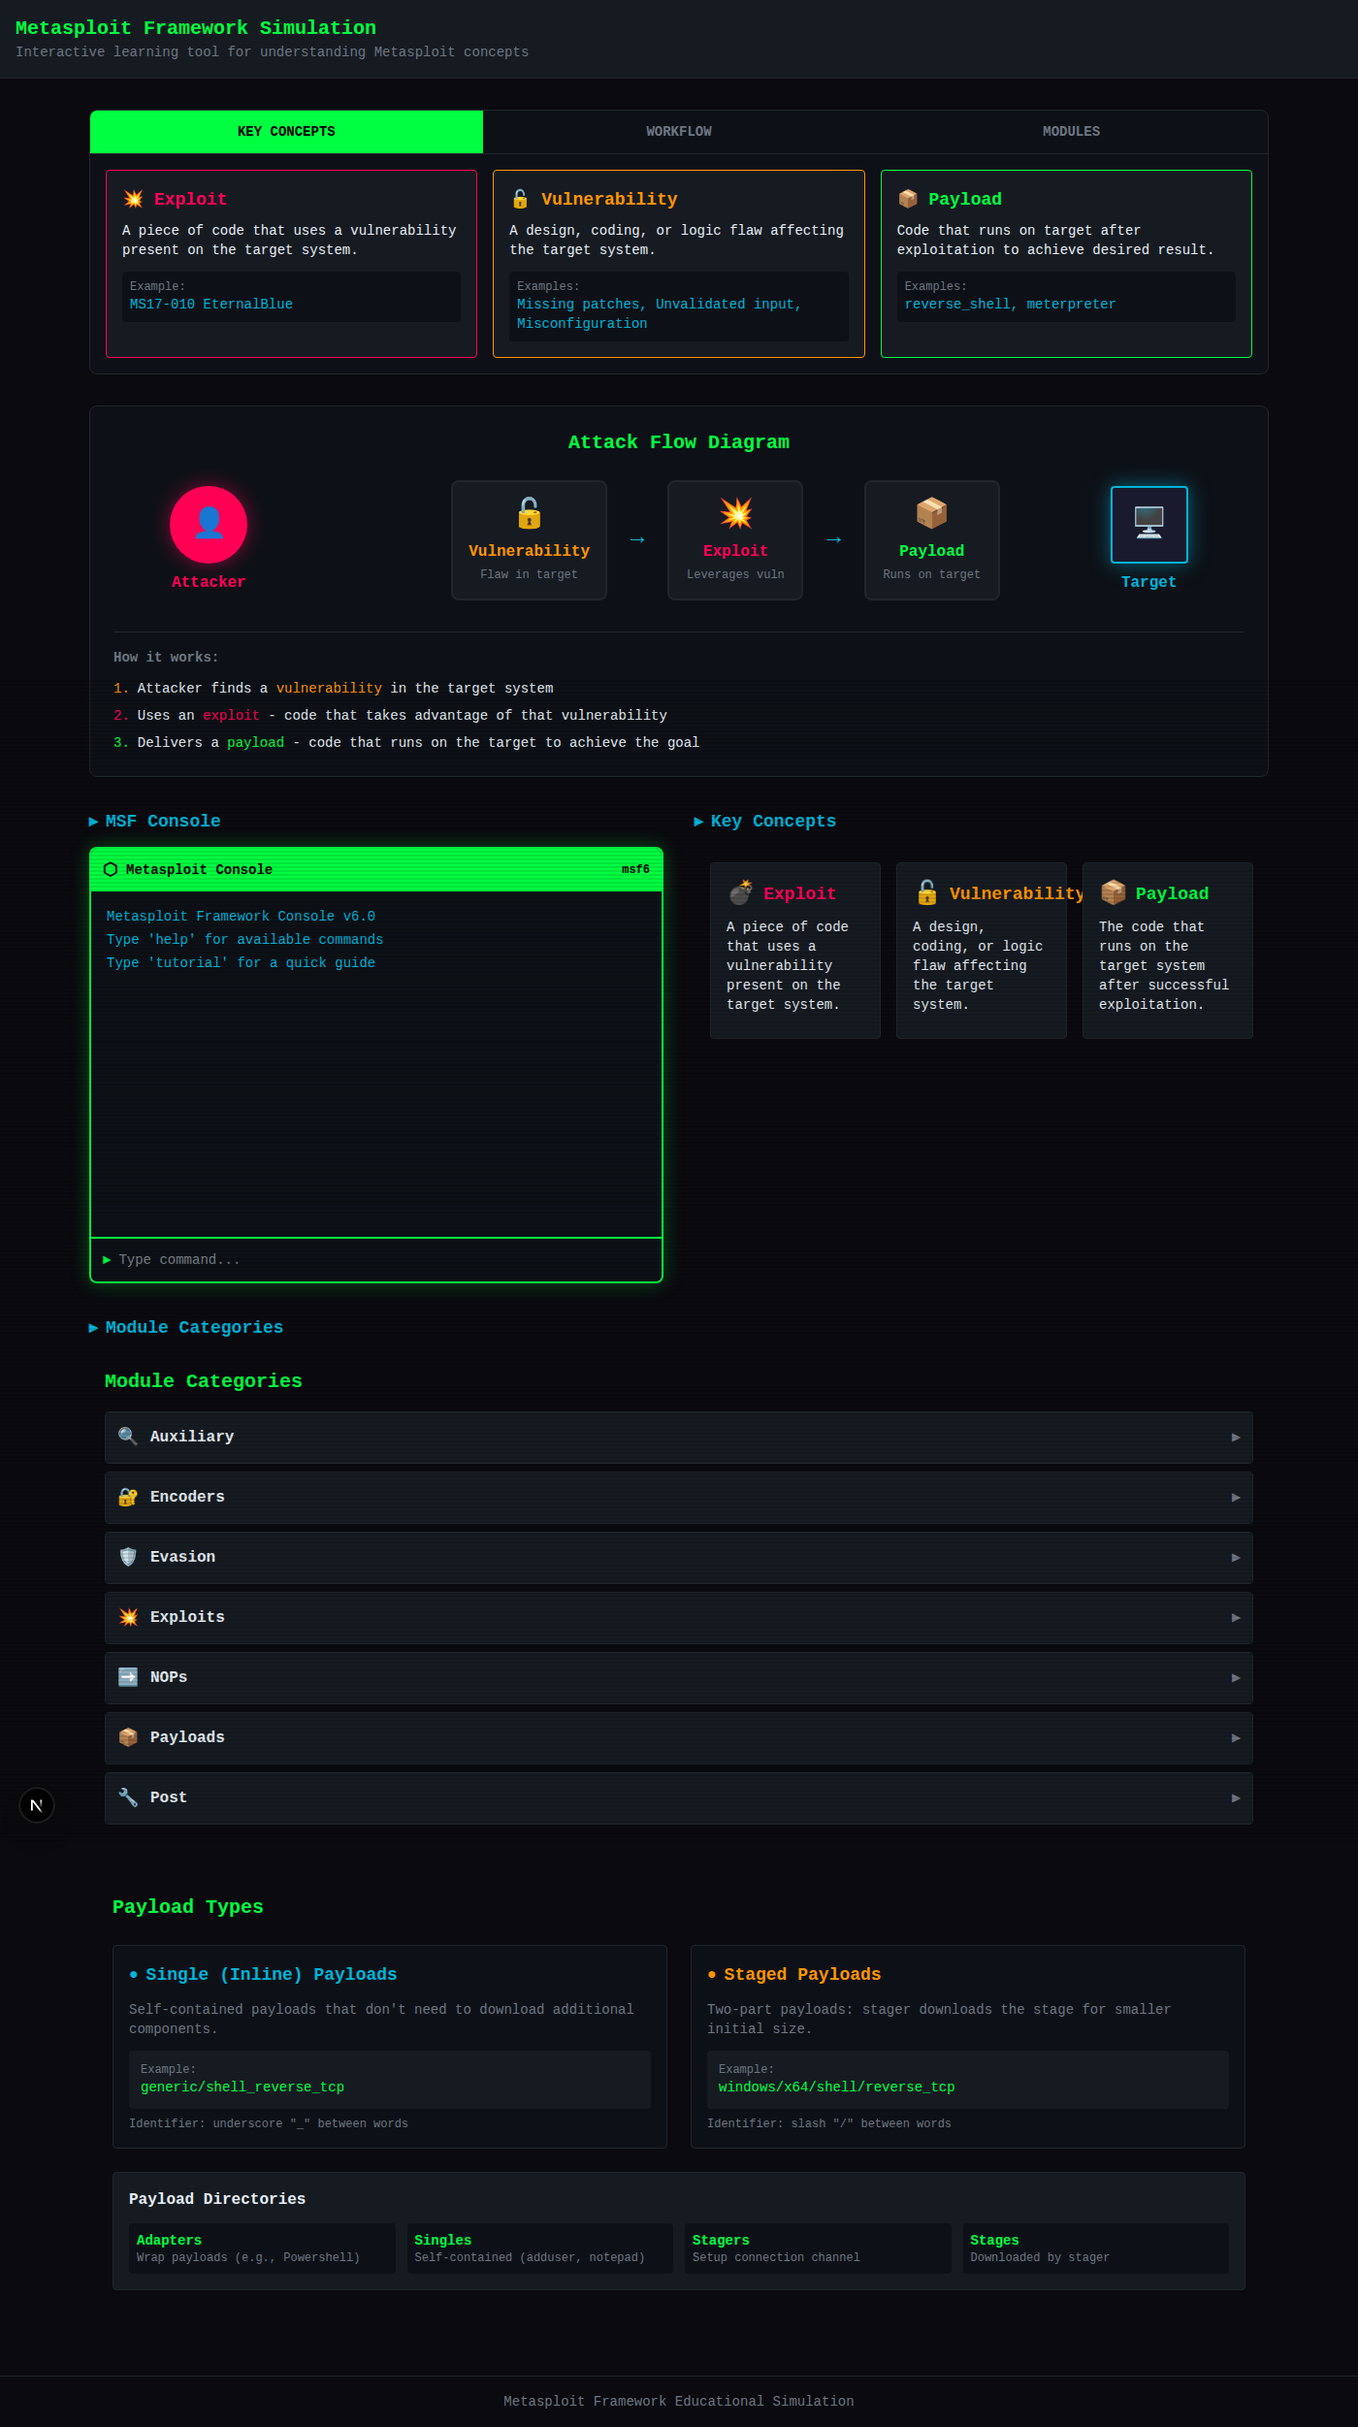
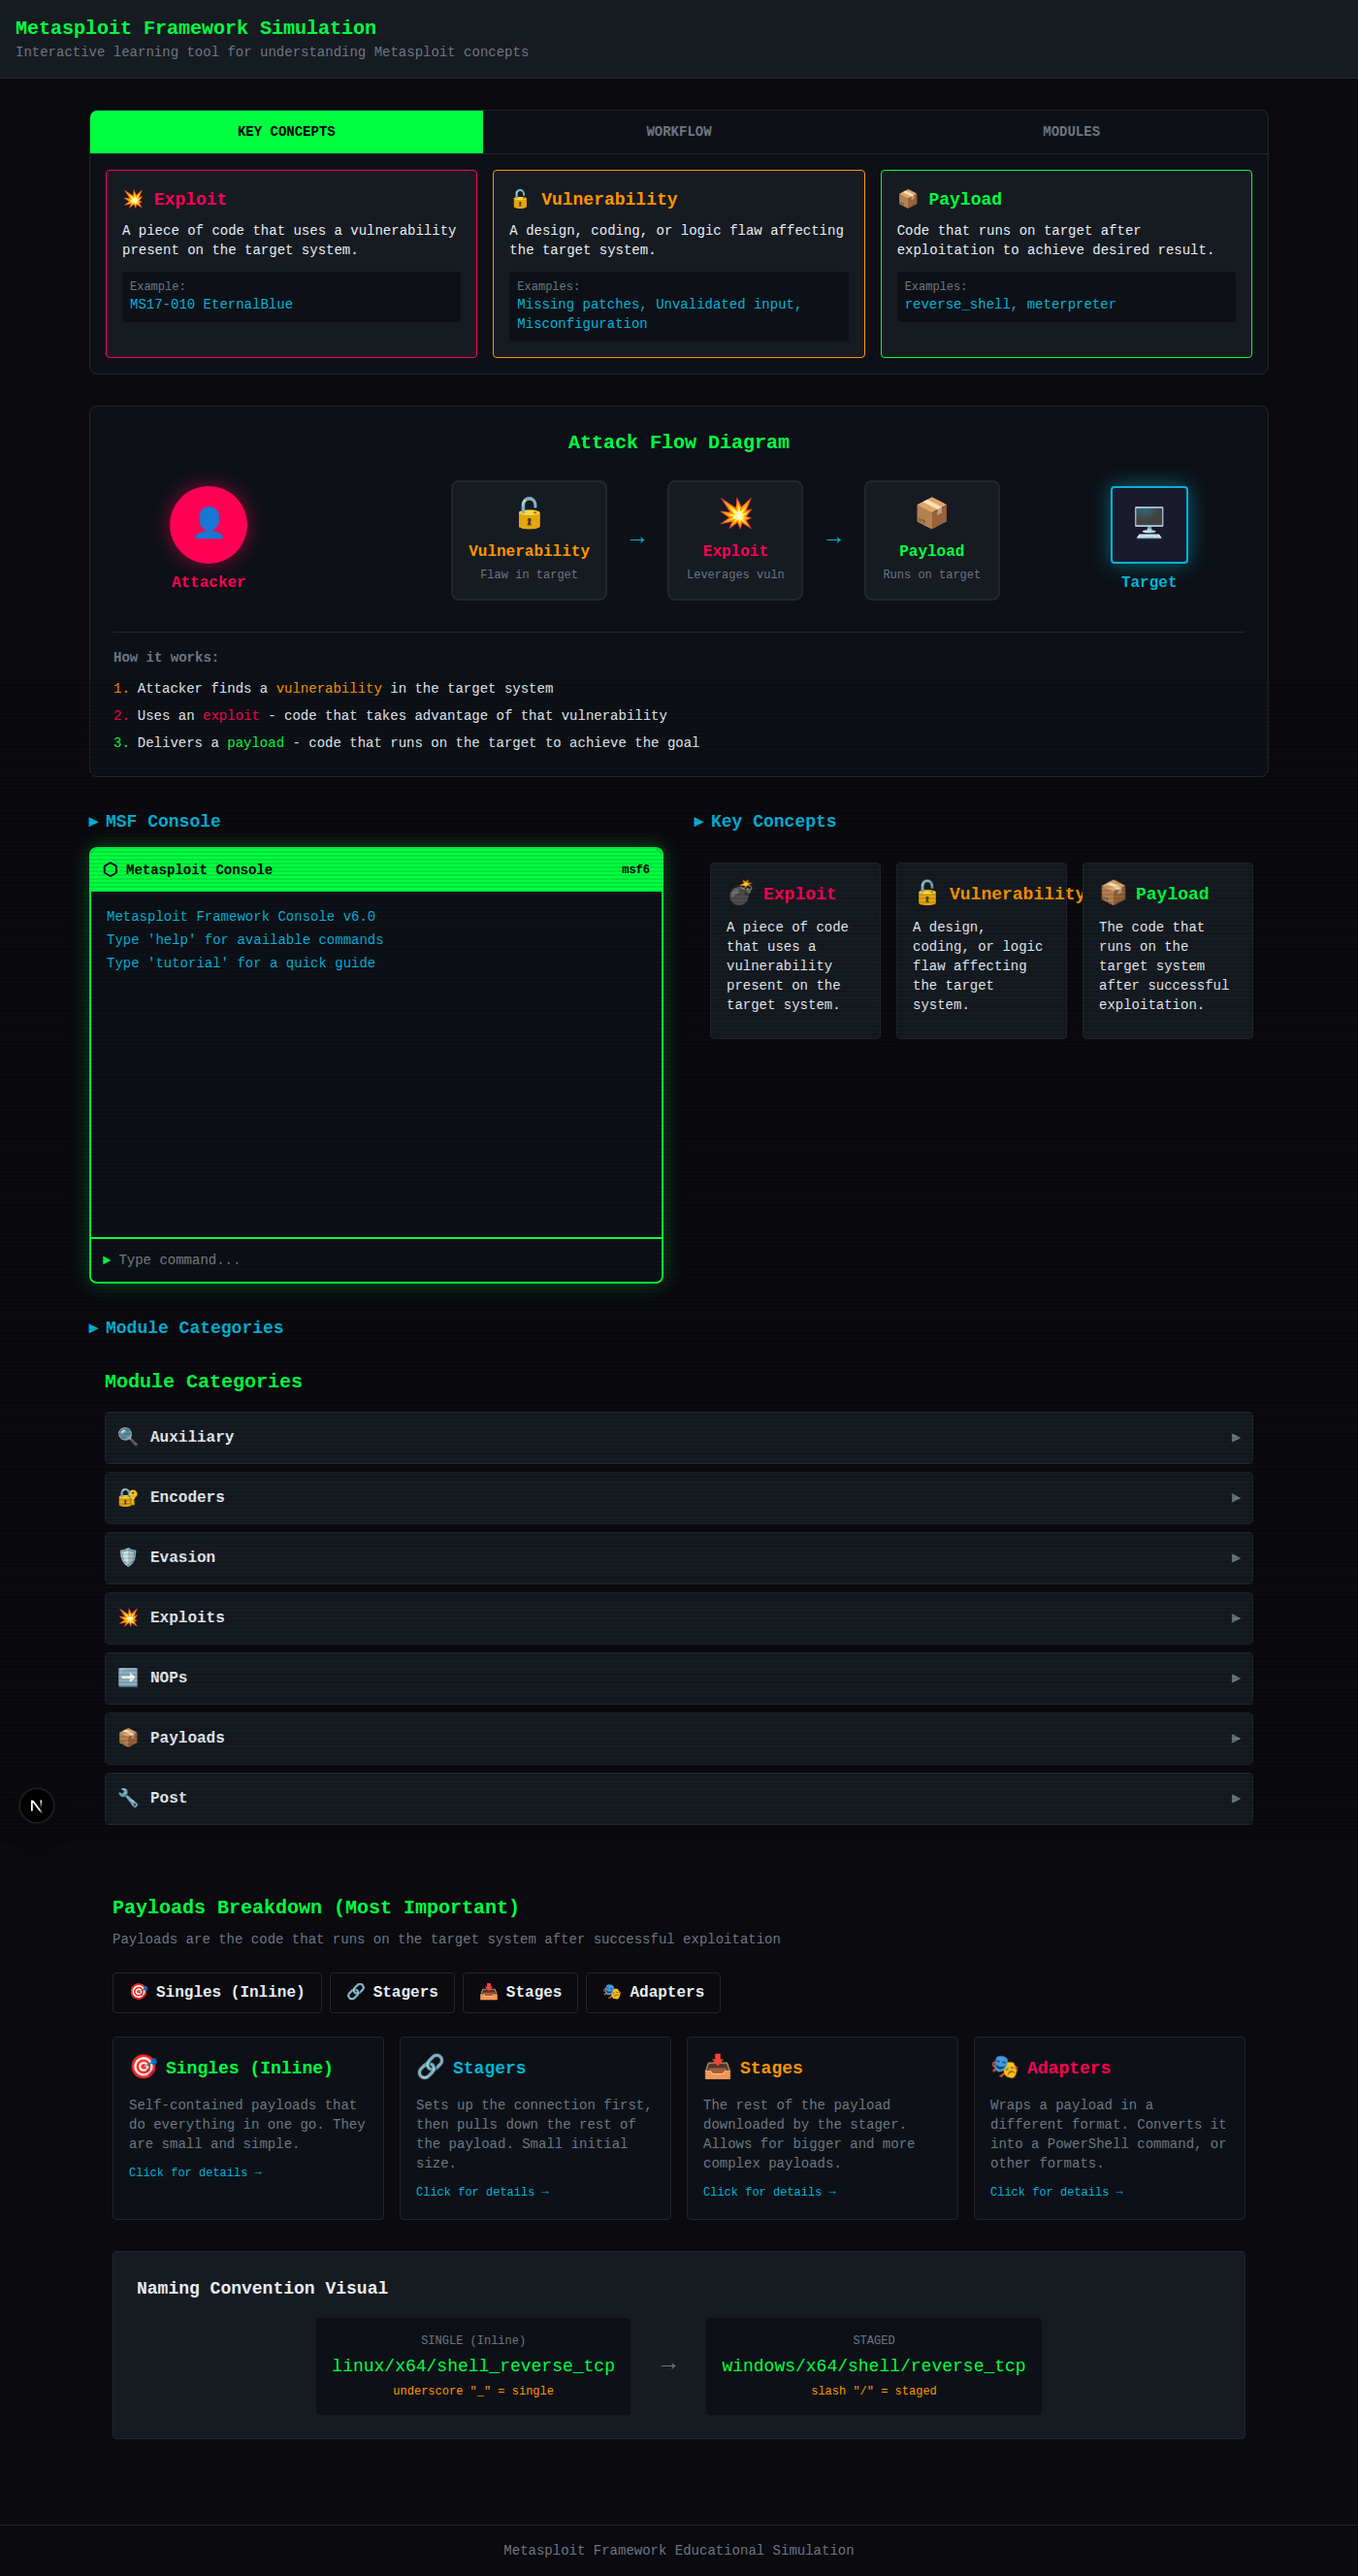
Add in-depth Payload Types breakdown with all 4 types

diff --git a/app/components/PayloadTypes.tsx b/app/components/PayloadTypes.tsx
@@ -1,60 +1,208 @@
 "use client";
 
+import { useState } from "react";
+
 export default function PayloadTypes() {
+  const [selectedType, setSelectedType] = useState<string | null>(null);
+
+  const payloadTypes = [
+    {
+      id: "singles",
+      name: "Singles (Inline)",
+      icon: "🎯",
+      color: "#00ff41",
+      description: "Self-contained payloads that do everything in one go. They are small and simple.",
+      characteristics: [
+        "Complete, standalone code",
+        "No additional downloads needed",
+        "Larger file size than stagers",
+        "Reliable for small tasks"
+      ],
+      examples: [
+        { name: "linux/x86/add_user", desc: "Adds a user to the Linux system" },
+        { name: "windows/x64/shell_reverse_tcp", desc: "Opens a reverse shell (single payload)" },
+        { name: "android/meterpreter_reverse_tcp", desc: "Android reverse TCP meterpreter" },
+        { name: "cmd/windows/download_exec", desc: "Download and execute a file" }
+      ],
+      useCases: ["Add a new user", "Open notepad.exe", "Download a file", "Simple reverse shell"]
+    },
+    {
+      id: "stagers",
+      name: "Stagers",
+      icon: "🔗",
+      color: "#00b4d8",
+      description: "Sets up the connection first, then pulls down the rest of the payload. Small initial size.",
+      characteristics: [
+        "Small initial payload",
+        "Establishes connection channel",
+        "Downloads the stage",
+        "Used with staged payloads"
+      ],
+      examples: [
+        { name: "windows/x64/shell/reverse_tcp", desc: "Staged - downloads shell" },
+        { name: "windows/meterpreter/reverse_tcp", desc: "Staged - downloads meterpreter" },
+        { name: "linux/meterpreter_reverse_tcp", desc: "Linux meterpreter stager" },
+        { name: "java/jsp_shell_reverse_tcp", desc: "JSP shell stager" }
+      ],
+      useCases: ["Small initial payload", "Bypass size restrictions", "Establish initial connection"]
+    },
+    {
+      id: "stages",
+      name: "Stages",
+      icon: "📥",
+      color: "#ff9500",
+      description: "The rest of the payload downloaded by the stager. Allows for bigger and more complex payloads.",
+      characteristics: [
+        "Downloaded by stager",
+        "Larger and more powerful",
+        "Full-featured functionality",
+        "Meterpreter is a stage"
+      ],
+      examples: [
+        { name: "windows/x64/shell", desc: "64-bit Windows command shell" },
+        { name: "windows/x64/meterpreter", desc: "Advanced meterpreter payload" },
+        { name: "linux/x64/shell", desc: "64-bit Linux command shell" },
+        { name: "python/meterpreter_reverse_tcp", desc: "Python meterpreter stage" }
+      ],
+      useCases: ["Full meterpreter shell", "Advanced functionality", "Large payload delivery"]
+    },
+    {
+      id: "adapters",
+      name: "Adapters",
+      icon: "🎭",
+      color: "#ff0055",
+      description: "Wraps a payload in a different format. Converts it into a PowerShell command, or other formats.",
+      characteristics: [
+        "Format conversion",
+        "Alternative delivery methods",
+        "Obfuscation possible",
+        "Platform-specific wrappers"
+      ],
+      examples: [
+        { name: "cmd/powershell/base64", desc: "PowerShell base64 encoded payload" },
+        { name: "cmd/python_reverse_tcp", desc: "Python script wrapper" },
+        { name: "python/meterpreter_reverse_tcp", desc: "Python meterpreter wrapper" },
+        { name: "php/meterpreter_reverse_tcp", desc: "PHP script wrapper" }
+      ],
+      useCases: ["PowerShell delivery", "Python script execution", "PHP web shell", "Bypass restrictions"]
+    }
+  ];
+
   return (
     <div className="p-6">
-      <h2 className="text-xl font-bold mb-6 text-[#00ff41]">Payload Types</h2>
-      
-      <div className="grid grid-cols-1 md:grid-cols-2 gap-6">
-        <div className="p-4 border border-[#21262d] rounded bg-[#0d1117]">
-          <div className="flex items-center mb-3">
-            <span className="text-[#00b4d8] mr-2">●</span>
-            <h3 className="text-lg font-bold text-[#00b4d8]">Single (Inline) Payloads</h3>
-          </div>
-          <p className="text-sm text-[#6e7681] mb-3">
-            Self-contained payloads that don't need to download additional components.
-          </p>
-          <div className="bg-[#161b22] p-3 rounded">
-            <p className="text-xs text-[#6e7681]">Example:</p>
-            <p className="text-sm text-[#00ff41] font-mono">generic/shell_reverse_tcp</p>
-          </div>
-          <p className="text-xs text-[#6e7681] mt-2">Identifier: underscore "_" between words</p>
-        </div>
+      <h2 className="text-xl font-bold mb-2 text-[#00ff41]">Payloads Breakdown (Most Important)</h2>
+      <p className="text-sm text-[#6e7681] mb-6">
+        Payloads are the code that runs on the target system after successful exploitation
+      </p>
 
-        <div className="p-4 border border-[#21262d] rounded bg-[#0d1117]">
-          <div className="flex items-center mb-3">
-            <span className="text-[#ff9500] mr-2">●</span>
-            <h3 className="text-lg font-bold text-[#ff9500]">Staged Payloads</h3>
-          </div>
-          <p className="text-sm text-[#6e7681] mb-3">
-            Two-part payloads: stager downloads the stage for smaller initial size.
-          </p>
-          <div className="bg-[#161b22] p-3 rounded">
-            <p className="text-xs text-[#6e7681]">Example:</p>
-            <p className="text-sm text-[#00ff41] font-mono">windows/x64/shell/reverse_tcp</p>
-          </div>
-          <p className="text-xs text-[#6e7681] mt-2">Identifier: slash "/" between words</p>
-        </div>
+      {/* Navigation Tabs */}
+      <div className="flex flex-wrap gap-2 mb-6">
+        {payloadTypes.map((type) => (
+          <button
+            key={type.id}
+            onClick={() => setSelectedType(selectedType === type.id ? null : type.id)}
+            className={`px-4 py-2 rounded font-bold transition-all ${
+              selectedType === type.id 
+                ? "text-black" 
+                : "text-[#e6edf3] border border-[#21262d] hover:border-[#00ff41]"
+            }`}
+            style={{ 
+              backgroundColor: selectedType === type.id ? type.color : "transparent",
+              borderColor: selectedType === type.id ? type.color : "#21262d"
+            }}
+          >
+            <span className="mr-2">{type.icon}</span>
+            {type.name}
+          </button>
+        ))}
       </div>
 
-      <div className="mt-6 p-4 border border-[#21262d] rounded bg-[#161b22]">
-        <h3 className="text-md font-bold mb-3 text-[#e6edf3]">Payload Directories</h3>
-        <div className="grid grid-cols-2 md:grid-cols-4 gap-3 text-sm">
-          <div className="p-2 bg-[#0d1117] rounded">
-            <p className="text-[#00ff41] font-semibold">Adapters</p>
-            <p className="text-xs text-[#6e7681]">Wrap payloads (e.g., Powershell)</p>
+      {/* Detailed Content */}
+      {selectedType ? (
+        <div className="p-6 border border-[#21262d] rounded bg-[#0d1117] animate-fadeIn">
+          {payloadTypes.filter(t => t.id === selectedType).map((type) => (
+            <div key={type.id}>
+              <div className="flex items-center mb-4">
+                <span className="text-3xl mr-3">{type.icon}</span>
+                <h3 className="text-xl font-bold" style={{ color: type.color }}>{type.name}</h3>
+              </div>
+              
+              <p className="text-[#e6edf3] mb-4">{type.description}</p>
+
+              <div className="grid grid-cols-1 md:grid-cols-2 gap-6">
+                <div>
+                  <h4 className="text-sm font-bold text-[#6e7681] mb-3">KEY CHARACTERISTICS</h4>
+                  <ul className="space-y-2">
+                    {type.characteristics.map((char, i) => (
+                      <li key={i} className="flex items-center text-sm text-[#e6edf3]">
+                        <span className="w-2 h-2 rounded-full mr-2" style={{ backgroundColor: type.color }}></span>
+                        {char}
+                      </li>
+                    ))}
+                  </ul>
+                </div>
+
+                <div>
+                  <h4 className="text-sm font-bold text-[#6e7681] mb-3">COMMON USE CASES</h4>
+                  <div className="flex flex-wrap gap-2">
+                    {type.useCases.map((use, i) => (
+                      <span key={i} className="px-2 py-1 bg-[#161b22] rounded text-xs text-[#00b4d8]">
+                        {use}
+                      </span>
+                    ))}
+                  </div>
+                </div>
+              </div>
+
+              <div className="mt-6">
+                <h4 className="text-sm font-bold text-[#6e7681] mb-3">EXAMPLES</h4>
+                <div className="space-y-2">
+                  {type.examples.map((ex, i) => (
+                    <div key={i} className="flex items-start p-3 bg-[#161b22] rounded">
+                      <code className="text-sm text-[#00ff41] flex-1">{ex.name}</code>
+                      <span className="text-xs text-[#6e7681] ml-4">{ex.desc}</span>
+                    </div>
+                  ))}
+                </div>
+              </div>
+            </div>
+          ))}
+        </div>
+      ) : (
+        <div className="grid grid-cols-1 md:grid-cols-2 lg:grid-cols-4 gap-4">
+          {payloadTypes.map((type) => (
+            <div 
+              key={type.id}
+              className="p-4 border border-[#21262d] rounded bg-[#0d1117] hover:border-[#00ff41] transition-colors cursor-pointer"
+              onClick={() => setSelectedType(type.id)}
+            >
+              <div className="flex items-center mb-3">
+                <span className="text-2xl mr-2">{type.icon}</span>
+                <h3 className="text-lg font-bold" style={{ color: type.color }}>{type.name}</h3>
+              </div>
+              <p className="text-sm text-[#6e7681]">{type.description}</p>
+              <button className="mt-3 text-xs text-[#00b4d8] hover:underline">
+                Click for details →
+              </button>
+            </div>
+          ))}
+        </div>
+      )}
+
+      {/* Naming Convention Visual */}
+      <div className="mt-8 p-6 border border-[#21262d] rounded bg-[#161b22]">
+        <h3 className="text-lg font-bold mb-4 text-[#e6edf3]">Naming Convention Visual</h3>
+        <div className="flex flex-col md:flex-row items-center justify-center gap-4 md:gap-8">
+          <div className="p-4 bg-[#0d1117] rounded text-center">
+            <p className="text-xs text-[#6e7681] mb-1">SINGLE (Inline)</p>
+            <p className="text-lg text-[#00ff41] font-mono">linux/x64/shell_reverse_tcp</p>
+            <p className="text-xs text-[#ff9500] mt-1">underscore "_" = single</p>
           </div>
-          <div className="p-2 bg-[#0d1117] rounded">
-            <p className="text-[#00ff41] font-semibold">Singles</p>
-            <p className="text-xs text-[#6e7681]">Self-contained (adduser, notepad)</p>
-          </div>
-          <div className="p-2 bg-[#0d1117] rounded">
-            <p className="text-[#00ff41] font-semibold">Stagers</p>
-            <p className="text-xs text-[#6e7681]">Setup connection channel</p>
-          </div>
-          <div className="p-2 bg-[#0d1117] rounded">
-            <p className="text-[#00ff41] font-semibold">Stages</p>
-            <p className="text-xs text-[#6e7681]">Downloaded by stager</p>
+          <span className="text-2xl text-[#6e7681]">→</span>
+          <div className="p-4 bg-[#0d1117] rounded text-center">
+            <p className="text-xs text-[#6e7681] mb-1">STAGED</p>
+            <p className="text-lg text-[#00ff41] font-mono">windows/x64/shell/reverse_tcp</p>
+            <p className="text-xs text-[#ff9500] mt-1">slash "/" = staged</p>
           </div>
         </div>
       </div>
